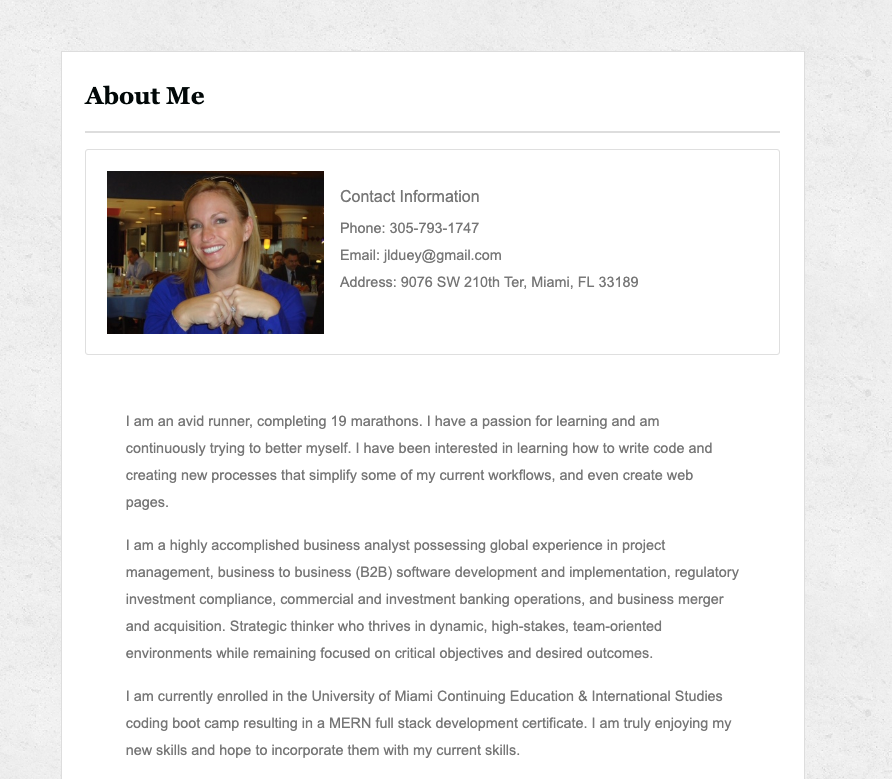
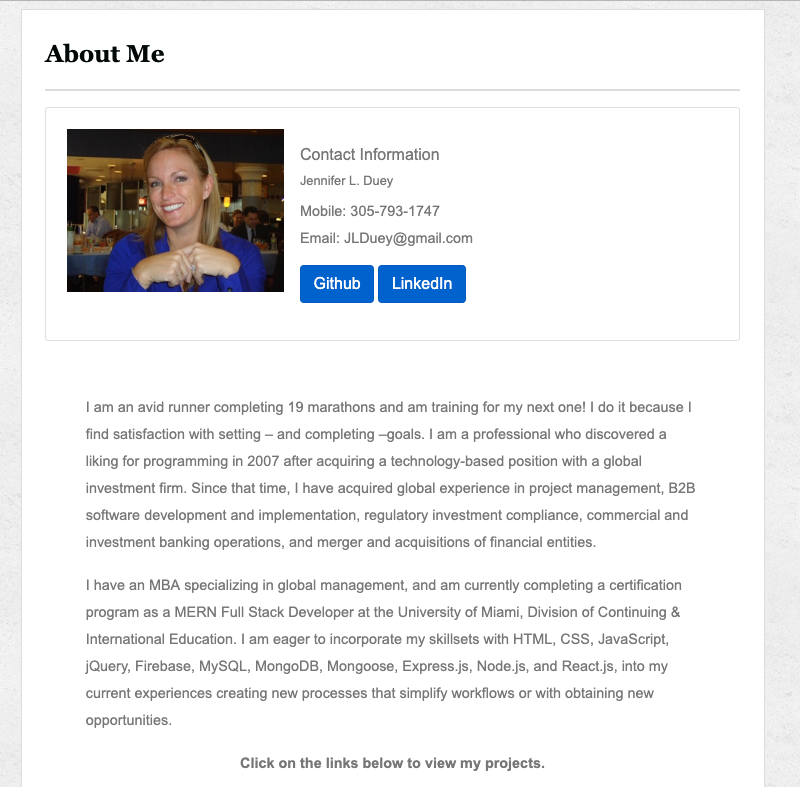
fixed title

Changed region(s): [[0.0938, 0.4929, 0.875, 0.9859], [0.0625, 0.0308, 0.7188, 0.4313], [0.875, 0.0924, 0.9062, 0.1232]]

diff --git a/index.html b/index.html
@@ -22,8 +22,8 @@
             </div>
             <div class="col-md-8">
               <div class="card-body">
-                <h5 class="card-title">Contact Information</h5>
-                <h6 class="card-title">Jennifer L. Duey</h6>
+                <h5 class="card-title"><b>Contact Information</b></h5>
+                <h5 class="card-title">Jennifer L. Duey</h5>
                 <ul class="list-unstyled">
                   <li>Mobile: 305-793-1747</li>
                   <li>Email: JLDuey@gmail.com</li>
